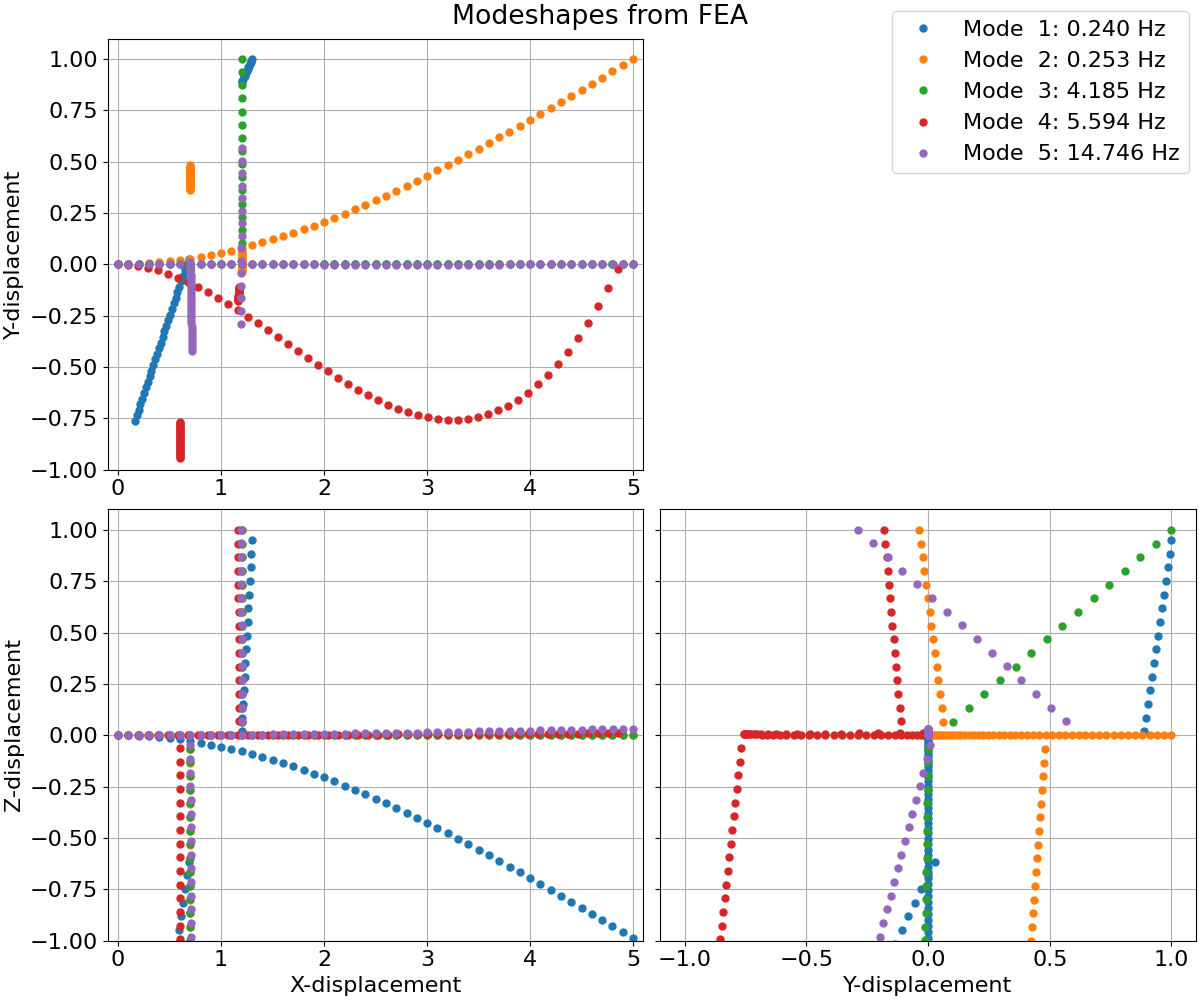
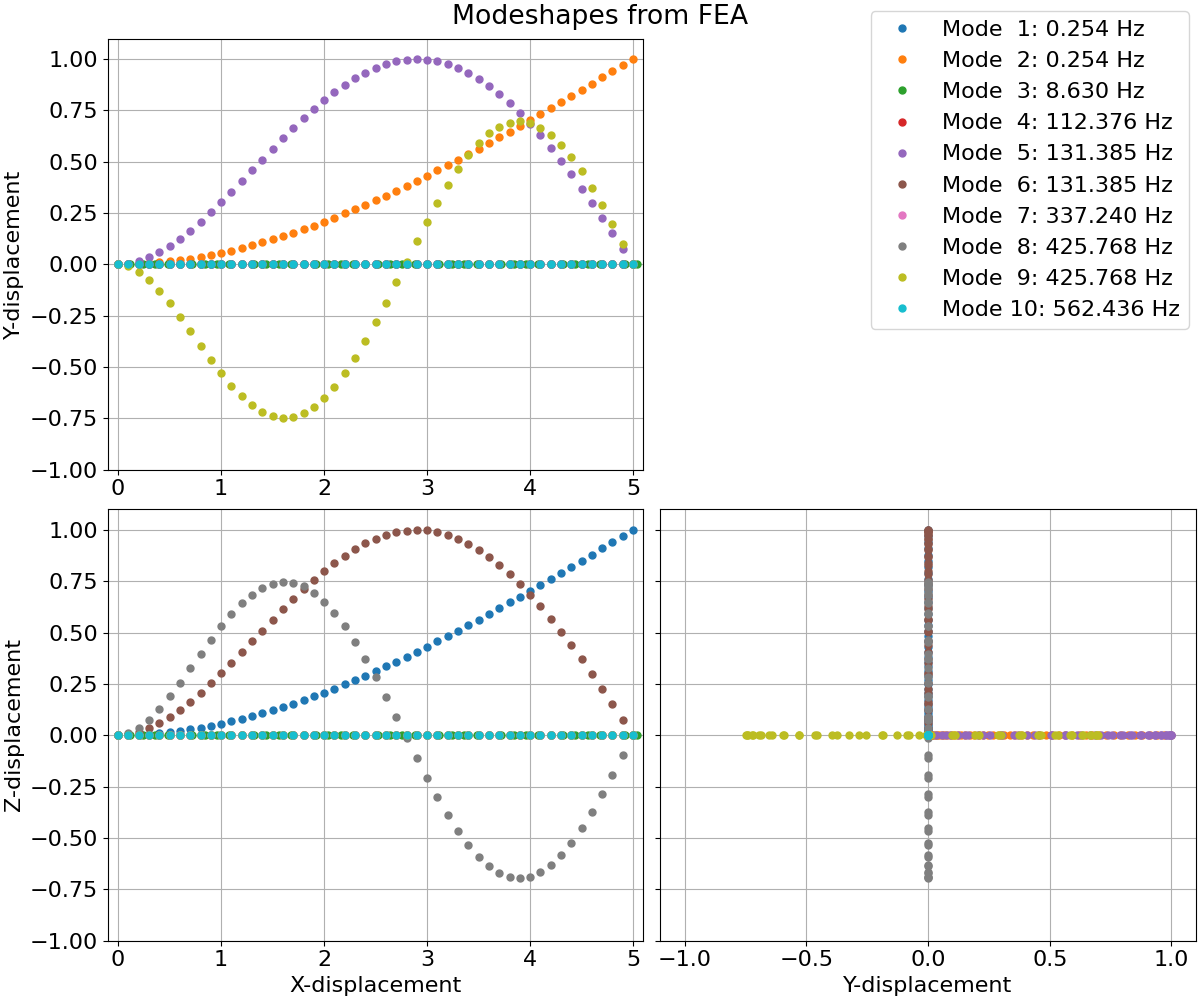
Fixes to cantilever beam example

diff --git a/run_fea.py b/run_fea.py
@@ -32,40 +32,23 @@ def doArgs(argList, name):
 
 def UniformBeam():   
     # --- Parameters
-    nElems = [50,15,30] # Number of elements along the beam
-    nNodes = [31,11,11] # Number of nodes (one on each end of each element)
+    nElem = 50 # Number of elements along the beam
+    nNode = 51 # Number of nodes (one on each end of each element)
     nDOFperNode = 6
     nNodesPerElem = 2
 
-    D_beam = 0.25 # m
-    D_beam_0 = (D_beam*np.ones(nElems[0]))
-    D_beam_1 = (D_beam*np.ones(nElems[1]))
-    D_beam_2 = (D_beam*np.ones(nElems[2]))
-    wt_beam = 0.01 # m
-    wt_beam_0 = (wt_beam*np.ones(nElems[0]))
-    wt_beam_1 = (wt_beam*np.ones(nElems[1]))
-    wt_beam_2 = (wt_beam*np.ones(nElems[2]))
-    L_tot = [5.,1.,2.] # m
+    D_beam = 0.25 * np.ones(nElem) # m
+    wt_beam = 0.01 * np.ones(nElem) # m
+    L_tot = 5. # m
 
     # Read inputs to beam properties
-    x_beamnode_0, _, L_beam_0, M_beam_0, _ = BeamProps(nNode=nNodes[0], nElem=nElems[0], D_beam=D_beam_0, wt_beam=wt_beam_0, L_tot=L_tot[0])
-    x_beamnode_1, _, L_beam_1, M_beam_1, _ = BeamProps(nNode=nNodes[1], nElem=nElems[1], D_beam=D_beam_1, wt_beam=wt_beam_1, L_tot=L_tot[1])
-    x_beamnode_2, _, L_beam_2, M_beam_2, _ = BeamProps(nNode=nNodes[2], nElem=nElems[2], D_beam=D_beam_2, wt_beam=wt_beam_2, L_tot=L_tot[2])
+    x_beamnode, _, L_beam, M_beam, _ = BeamProps(nNode=nNode, nElem=nElem, D_beam=D_beam, wt_beam=wt_beam, L_tot=L_tot)
 
-    # Add additional beam
-    x_beamnode = np.concatenate((x_beamnode_0, x_beamnode_0[12] * np.ones_like(x_beamnode_1)[1:], x_beamnode_0[7] * np.ones_like(x_beamnode_2)[1:]))
     y_beamnode = np.zeros_like(x_beamnode)
-    z_beamnode = np.concatenate((np.zeros_like(x_beamnode_0),x_beamnode_1[1:],-1.*x_beamnode_2[1:]))
+    z_beamnode = np.zeros_like(x_beamnode)
     
-    D_beam = np.concatenate((D_beam_0, D_beam_1, D_beam_2))
-    wt_beam = np.concatenate((wt_beam_0, wt_beam_1, wt_beam_2))
-    L_beam = np.concatenate((L_beam_0, L_beam_1, L_beam_2))
-    M_beam = np.concatenate((M_beam_0, M_beam_1, M_beam_2))
-    
-    nElem = sum(nElems)
-
     # Map nodes/DOF
-    Elem2Nodes, Nodes2DOF, Elem2DOF, Layout, nNode = LinearDOFMapping(nNodesPerElem, nDOFperNode, nElems=nElems, atNodes=[10,35])
+    Elem2Nodes, Nodes2DOF, Elem2DOF = LinearDOFMappingSingle(nElem, nNodesPerElem, nDOFperNode)
 
     nDOF_tot = nNode * nDOFperNode
     
@@ -93,8 +76,8 @@ def UniformBeam():
 
     IDOF_All = np.arange(0,nDOF_tot)
     # Tip and root degrees of freedom
-    IDOF_root = Nodes2DOF[Layout[0][0]]
-    IDOF_tip  = Nodes2DOF[Layout[0][-1]]
+    IDOF_root = Nodes2DOF[Elem2Nodes[0,:][0] ,:]
+    IDOF_tip  = Nodes2DOF[Elem2Nodes[-1,:][1],:]
     
 
     # --- Handle BC and root/tip conditions
@@ -103,7 +86,7 @@ def UniformBeam():
     BC_tip  = [1,1,1,1,1,1]
     
     M_root = None
-    M_tip = PointMassMatrix(m=100000.,Ref2COG=(0,0.2,0))
+    M_tip = PointMassMatrix(m=100000.,Ref2COG=(0,0,0))
     K_root = None
     K_tip = None
 
@@ -148,7 +131,7 @@ def UniformBeam():
     # Add fixed BC back into eigenvectors
     Q = Tr.dot(Qr)
     
-    nModes = 5
+    nModes = 10
     # Need to add original shape of x_nodes to get displacements
     x_nodes = np.reshape(np.tile(x_beamnode,nModes),(nNode,nModes),order='F')
     y_nodes = np.reshape(np.tile(y_beamnode,nModes),(nNode,nModes),order='F')
@@ -177,11 +160,11 @@ def UniformBeam():
     print('Mode 3 Nat. Freq: %3.3f Hz' %(eigfreqs[2]))
     print('Mode 4 Nat. Freq: %3.3f Hz' %(eigfreqs[3]))
     print('Mode 5 Nat. Freq: %3.3f Hz' %(eigfreqs[4]))
-    # print('Mode 6 Nat. Freq: %3.3f Hz' %(eigfreqs[5]))
-    # print('Mode 7 Nat. Freq: %3.3f Hz' %(eigfreqs[6]))
-    # print('Mode 8 Nat. Freq: %3.3f Hz' %(eigfreqs[7]))
-    # print('Mode 9 Nat. Freq: %3.3f Hz' %(eigfreqs[8]))
-    # print('Mode 10 Nat. Freq: %3.3f Hz' %(eigfreqs[9]))
+    print('Mode 6 Nat. Freq: %3.3f Hz' %(eigfreqs[5]))
+    print('Mode 7 Nat. Freq: %3.3f Hz' %(eigfreqs[6]))
+    print('Mode 8 Nat. Freq: %3.3f Hz' %(eigfreqs[7]))
+    print('Mode 9 Nat. Freq: %3.3f Hz' %(eigfreqs[8]))
+    print('Mode 10 Nat. Freq: %3.3f Hz' %(eigfreqs[9]))
 
 	## --- Check Frequencies
     M_modal = Q[:,:nModes].T @ M_glob @ Q[:,:nModes]
@@ -196,11 +179,11 @@ def UniformBeam():
     print('Mode 3 Nat. Freq: %3.3f Hz' %(modal_freqs[2]))
     print('Mode 4 Nat. Freq: %3.3f Hz' %(modal_freqs[3]))
     print('Mode 5 Nat. Freq: %3.3f Hz' %(modal_freqs[4]))
-    # print('Mode 6 Nat. Freq: %3.3f Hz' %(modal_freqs[5]))
-    # print('Mode 7 Nat. Freq: %3.3f Hz' %(modal_freqs[6]))
-    # print('Mode 8 Nat. Freq: %3.3f Hz' %(modal_freqs[7]))
-    # print('Mode 9 Nat. Freq: %3.3f Hz' %(modal_freqs[8]))
-    # print('Mode 10 Nat. Freq: %3.3f Hz' %(modal_freqs[9]))
+    print('Mode 6 Nat. Freq: %3.3f Hz' %(modal_freqs[5]))
+    print('Mode 7 Nat. Freq: %3.3f Hz' %(modal_freqs[6]))
+    print('Mode 8 Nat. Freq: %3.3f Hz' %(modal_freqs[7]))
+    print('Mode 9 Nat. Freq: %3.3f Hz' %(modal_freqs[8]))
+    print('Mode 10 Nat. Freq: %3.3f Hz' %(modal_freqs[9]))
 
     # --- Return a dictionary
     FEM = {

diff --git a/utils.py b/utils.py
@@ -6,6 +6,23 @@ Utility functions, adapted from WELIB by Emmanuel Branlard
 import numpy as np
 import numpy.ma as ma
 
+def LinearDOFMappingSingle(nElem, nNodesPerElem, nDOFperNode):
+    """ 
+    returns the mappings from nodes to DOF and element to nodes and DOF
+    for a structure with the same type of elements, assuming nodes are one after the other
+    """
+    nNodes = (nNodesPerElem-1)*nElem+1 # total number of nodes in system
+    Nodes2DOF=np.zeros((nNodes,nDOFperNode), dtype=int)
+    for i in np.arange(nNodes):
+        Nodes2DOF[i,:]=np.arange(i*6, (i+1)*6) 
+    Elem2DOF=np.zeros((nElem,nDOFperNode*nNodesPerElem),dtype=int)
+    for i in np.arange(nElem):
+        Elem2DOF[i,:]=np.concatenate((Nodes2DOF[i,:], Nodes2DOF[i+1,:]))
+    Elem2Nodes=np.zeros((nElem,nNodesPerElem), dtype=int)
+    for i in np.arange(nElem):
+        Elem2Nodes[i,:]=(i,i+1)
+    return Elem2Nodes, Nodes2DOF, Elem2DOF
+
 def LinearDOFMapping(nNodesPerElem, nDOFperNode, nElems, atNodes):
     """ 
     returns the mappings from nodes to DOF and element to nodes and DOF
